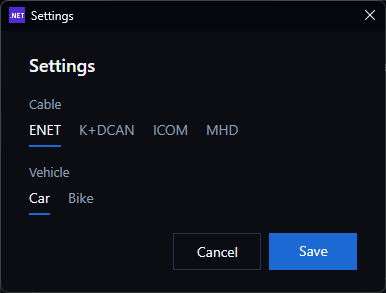
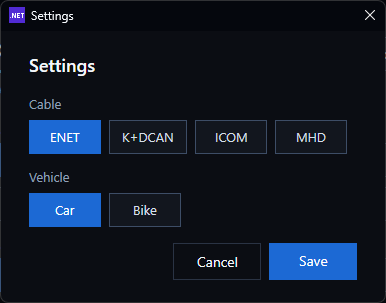
Make the steps obvious, state the risk in About, and put a large exe download on the repo page.

diff --git a/MainWindow.xaml b/MainWindow.xaml
@@ -4,7 +4,7 @@
         xmlns:local="clr-namespace:KdrEnet"
         Title="KDR ENET"
         Width="520"
-        Height="680"
+        Height="760"
         MinWidth="440"
         MinHeight="460"
         ResizeMode="CanResize"
@@ -219,7 +219,7 @@
                         </Style>
                     </TextBlock.Style>
                 </TextBlock>
-                <TextBlock Text="Server is far. Use the Open Radmin VPN button, join the same network, then Start on the car laptop."
+                <TextBlock Text="The server is far. Open Radmin VPN on both laptops, join the same network, then Start on the car laptop."
                            FontSize="13" Foreground="#e8b15a" TextWrapping="Wrap" Margin="0,6,0,0"
                            Visibility="{Binding PingIsFar, Converter={StaticResource BoolVis}}"/>
             </StackPanel>
@@ -229,24 +229,31 @@
             </StackPanel>
         </Grid>
 
-        <UniformGrid Grid.Row="1" Columns="2" Margin="0,0,0,10">
-            <Button x:Name="KdrPathButton" Content="KDR server" Style="{StaticResource ChoiceButton}" Margin="0,0,8,0" Click="ChooseKdr_Click"/>
-            <Button x:Name="RadminPathButton" Content="Radmin VPN" Style="{StaticResource ChoiceButton}" Click="ChooseRadmin_Click"/>
-        </UniformGrid>
+        <StackPanel Grid.Row="1" Margin="0,0,0,10">
+            <TextBlock Text="1. How the two laptops connect" FontSize="13" Foreground="#8ea0b5" Margin="0,0,0,6"/>
+            <UniformGrid Columns="2">
+                <Button x:Name="KdrPathButton" Content="KDR server" Style="{StaticResource ChoiceButton}" Margin="0,0,8,0" Click="ChooseKdr_Click"/>
+                <Button x:Name="RadminPathButton" Content="Radmin VPN" Style="{StaticResource ChoiceButton}" Click="ChooseRadmin_Click"/>
+            </UniformGrid>
+        </StackPanel>
 
-        <Button Grid.Row="2" Content="Open Radmin VPN" Style="{StaticResource ChoiceButton}" HorizontalAlignment="Stretch" Margin="0,0,0,10" Click="Radmin_Click"/>
+        <Button Grid.Row="2" Content="Open Radmin VPN" Style="{StaticResource ChoiceButton}" HorizontalAlignment="Stretch" Margin="0,0,0,14" Click="Radmin_Click"/>
 
-        <UniformGrid Grid.Row="3" Columns="2" Margin="0,0,0,16">
-            <Button x:Name="CarRoleButton" Content="Car laptop" Style="{StaticResource ChoiceButton}" Margin="0,0,8,0" Click="ChooseCar_Click"/>
-            <Button x:Name="EsyRoleButton" Content="E-Sys laptop" Style="{StaticResource ChoiceButton}" Click="ChooseEsy_Click"/>
-        </UniformGrid>
+        <StackPanel Grid.Row="3" Margin="0,0,0,12">
+            <TextBlock Text="2. Which laptop is this" FontSize="13" Foreground="#8ea0b5" Margin="0,0,0,6"/>
+            <UniformGrid Columns="2">
+                <Button x:Name="CarRoleButton" Content="Car laptop" Style="{StaticResource ChoiceButton}" Margin="0,0,8,0" Click="ChooseCar_Click"/>
+                <Button x:Name="EsyRoleButton" Content="E-Sys laptop" Style="{StaticResource ChoiceButton}" Click="ChooseEsy_Click"/>
+            </UniformGrid>
+            <TextBlock Text="{Binding GuideLine}" FontSize="14" Foreground="#f4f7fb" TextWrapping="Wrap" Margin="0,12,0,0"/>
+        </StackPanel>
 
         <TextBlock Grid.Row="4" Text="{Binding StatusLine}" FontSize="13" Foreground="#8ea0b5" Margin="0,0,0,8"
                    Visibility="{Binding IsCarSide, Converter={StaticResource BoolVis}}"/>
 
         <StackPanel Grid.Row="5" VerticalAlignment="Center">
             <StackPanel Visibility="{Binding ShowCarCode, Converter={StaticResource BoolVis}}">
-                <TextBlock Text="Read this out" FontSize="13" Foreground="#8ea0b5" Margin="0,0,0,10"/>
+                <TextBlock Text="Read these 6 numbers out loud" FontSize="13" Foreground="#8ea0b5" Margin="0,0,0,10"/>
                 <StackPanel Orientation="Horizontal">
                     <TextBlock Text="{Binding Shown0}" Style="{StaticResource DigitRead}"/>
                     <TextBlock Text="{Binding Shown1}" Style="{StaticResource DigitRead}"/>
@@ -261,7 +268,7 @@
                 <TextBlock Text="{Binding RadminReadout}" FontSize="18" FontWeight="SemiBold" TextWrapping="Wrap"/>
             </StackPanel>
             <StackPanel Visibility="{Binding ShowTechCode, Converter={StaticResource BoolVis}}">
-                <TextBlock Text="Type the code" FontSize="13" Foreground="#8ea0b5" Margin="0,0,0,10"/>
+                <TextBlock Text="Type the 6 numbers from the car laptop" FontSize="13" Foreground="#8ea0b5" Margin="0,0,0,10"/>
                 <StackPanel Orientation="Horizontal">
                     <TextBox x:Name="Digit0" Style="{StaticResource DigitBox}"/>
                     <TextBox x:Name="Digit1" Style="{StaticResource DigitBox}"/>

diff --git a/SettingsWindow.xaml b/SettingsWindow.xaml
@@ -14,18 +14,21 @@
         SnapsToDevicePixels="True">
     <Window.Resources>
         <Style x:Key="Pick" TargetType="Button">
-            <Setter Property="Background" Value="Transparent"/>
-            <Setter Property="Foreground" Value="#8ea0b5"/>
-            <Setter Property="FontSize" Value="14"/>
-            <Setter Property="Padding" Value="0,0,0,6"/>
-            <Setter Property="Margin" Value="0,0,18,10"/>
+            <Setter Property="Height" Value="34"/>
+            <Setter Property="MinWidth" Value="72"/>
+            <Setter Property="Margin" Value="0,0,8,8"/>
+            <Setter Property="Padding" Value="12,0"/>
+            <Setter Property="FontSize" Value="13"/>
             <Setter Property="Cursor" Value="Hand"/>
-            <Setter Property="HorizontalAlignment" Value="Left"/>
+            <Setter Property="Background" Value="#12161e"/>
+            <Setter Property="Foreground" Value="#d5deea"/>
+            <Setter Property="BorderBrush" Value="#3d4d66"/>
+            <Setter Property="BorderThickness" Value="1"/>
             <Setter Property="Template">
                 <Setter.Value>
                     <ControlTemplate TargetType="Button">
-                        <Border Background="Transparent" BorderBrush="{TemplateBinding BorderBrush}" BorderThickness="{TemplateBinding BorderThickness}" Padding="{TemplateBinding Padding}">
-                            <ContentPresenter/>
+                        <Border Background="{TemplateBinding Background}" BorderBrush="{TemplateBinding BorderBrush}" BorderThickness="{TemplateBinding BorderThickness}" Padding="{TemplateBinding Padding}">
+                            <ContentPresenter HorizontalAlignment="Center" VerticalAlignment="Center"/>
                         </Border>
                     </ControlTemplate>
                 </Setter.Value>

diff --git a/AboutWindow.xaml b/AboutWindow.xaml
@@ -2,8 +2,8 @@
         xmlns="http://schemas.microsoft.com/winfx/2006/xaml/presentation"
         xmlns:x="http://schemas.microsoft.com/winfx/2006/xaml"
         Title="About"
-        Width="420"
-        Height="420"
+        Width="440"
+        Height="560"
         WindowStartupLocation="CenterOwner"
         ResizeMode="NoResize"
         Background="#0b0d13"
@@ -78,6 +78,7 @@
             </TextBlock>
             <TextBlock x:Name="VersionLine" Margin="0,6,0,0" Foreground="#8ea0b5" FontSize="13"/>
             <TextBlock x:Name="CreatorLine" Margin="0,4,0,0" FontSize="13" Foreground="#b7c3d1"/>
+            <TextBlock x:Name="SummaryLine" Margin="0,10,0,0" FontSize="13" Foreground="#f4f7fb" TextWrapping="Wrap"/>
             <StackPanel Orientation="Horizontal" Margin="0,6,0,0">
                 <Button Content="kdrcoding.com" Style="{StaticResource LinkButton}" Click="Site_Click"/>
                 <TextBlock Text="  ·  " Foreground="#8ea0b5"/>

diff --git a/LegalCopy.cs b/LegalCopy.cs
@@ -2,7 +2,10 @@ namespace KdrEnet;
 
 public static class LegalCopy
 {
-    public const string TermsVersion = "1.2";
+    public const string TermsVersion = "1.3";
+
+    public const string Summary =
+        "You use this at your own risk. Kadir and KDR Coding do not pay for car damage, failed coding, or other losses, as far as the law allows. Use it only on a vehicle you are allowed to work on. Do not use it to reach a car or a computer without permission. This app is not BMW software.";
     public const string Creator = "Kadir";
     public const string Brand = "KDR Coding";
     public const string Site = "https://kdrcoding.com";
@@ -10,30 +13,32 @@ public static class LegalCopy
 
     public const string Terms = """
 KDR ENET TERMS OF USE
-Version 1.2
+Version 1.3
 
-These terms are a contract between you and Kadir, operating as KDR Coding ("KDR", "we"), for the KDR ENET software. By clicking I agree, or by starting a session, you accept them. If you do not accept them, do not start a session.
+These terms are a contract between you and Kadir, operating as KDR Coding ("KDR", "we"), for the KDR ENET software. By clicking I agree, or by starting a session, you accept them. If you do not accept them, close the app.
 
 1. What the software does
-KDR ENET is a remote-session helper for a car connected to one computer with an ENET cable. The computer with the car shows a session code. The other computer types that code. Both computers connect outward to the KDR session server, and the server passes vehicle diagnostic traffic between them for that code only. E-Sys on the other computer uses 127.0.0.1. Stop, or closing the window, ends the connection. This version does not turn Windows Firewall off. If an older session left the firewall off, Stop restores the settings from before that session.
+KDR ENET is a connection helper. One computer is with the car. The other computer runs a diagnostic program you already have, such as E-Sys. The two computers are not on the same Wi-Fi. They meet through the KDR session server, or through a Radmin VPN network you install and join yourself. KDR ENET does not include E-Sys, BMW software, or Radmin VPN. It does not code the car by itself. Stop, or closing the window, ends the connection. This version does not turn Windows Firewall off. If an older session left the firewall off, Stop restores the settings from before that session.
 
-2. Who may use it
-You confirm that you are allowed to change the firewall on this computer, and that you own the vehicle or have the owner's permission to connect to it and to code or diagnose it. You will stay with the computer while the session is on, and you will end the session when the work is finished. You will not use the software on a computer or a vehicle you are not allowed to service.
+2. Lawful use only
+Use KDR ENET only on a computer you are allowed to control, and only on a vehicle you own or have the owner's permission to diagnose or code. You will stay with the computer while the session is on, and you will end the session when the work is finished. You will not use the software to reach a vehicle, a computer, or a network without permission. That kind of use can be a crime, and it is not what this software is for. You are responsible for obeying the law where you are, and for any license on E-Sys, Radmin VPN, or other software you use with it.
 
 3. Risk you accept
-Vehicle coding and diagnostics can change how a car behaves. A wrong step, a dead battery, a pulled cable, or an open session can affect modules, settings, or this computer. Diagnostic traffic for the session passes through the KDR session server while the session is on. If an older session left the firewall off, this computer accepts inbound network traffic until you click Stop. You understand those risks and you choose to take them. KDR does not promise that a session will succeed, that a feature will work, or that the car or the computer will be unchanged.
+Vehicle coding and diagnostics can change how a car behaves. A wrong step, a dead battery, a pulled cable, or an open session can affect modules, settings, or this computer. On the KDR server path, diagnostic traffic for the session passes through the KDR session server while the session is on. On the Radmin VPN path, traffic stays on the Radmin VPN network you joined. If an older session left the firewall off, this computer accepts inbound network traffic until you click Stop. You understand those risks and you choose to take them. KDR does not promise that a session will succeed, that a feature will work, or that the car or the computer will be unchanged.
 
 4. No warranty
-The software is provided as is and as available. To the fullest extent allowed by law, KDR gives no warranty of any kind, whether express, implied, or statutory, including any warranty of merchantability, fitness for a particular purpose, title, quiet enjoyment, accuracy, or non-infringement. We do not warrant that the software will be uninterrupted, error-free, or safe for every car or every network.
+The software is provided as is and as available, free of charge. To the fullest extent allowed by law, KDR gives no warranty of any kind, whether express, implied, or statutory, including any warranty of merchantability, fitness for a particular purpose, title, quiet enjoyment, accuracy, or non-infringement. We do not warrant that the software will be uninterrupted, error-free, or safe for every car or every network.
 
-5. Limit of liability
-To the fullest extent allowed by law, Kadir and KDR Coding will not be liable for any indirect, incidental, special, consequential, exemplary, or punitive damages, or for any loss of data, loss of use, lost profits, vehicle damage, module failure, failed coding, computer damage, privacy or security incident while diagnostic traffic passes through the session server or while the firewall is off from an older session, or cost of substitute service, whether the claim is in contract, tort, or any other theory, and whether or not we were told it might happen. If a law does not allow that full limit, our total liability for all claims arising out of one session is limited to the amount you paid KDR Coding for that session, or fifty United States dollars if you paid nothing for it.
+5. No money from us
+To the fullest extent allowed by law, Kadir and KDR Coding owe you no money for anything that happens when you use the software or when you cannot use it. That includes vehicle damage, a module that fails, coding that does not stick, a dead battery, a pulled cable, computer damage, lost data, lost profits, lost time, a privacy or security problem while traffic passes through the session server, and any problem with E-Sys, Radmin VPN, Windows, a cable, or another tool. This applies to every kind of claim, including contract and tort, even if we were told it might happen. Your remedy is to stop using the software.
+
+If a law does not allow that full limit, the most Kadir and KDR Coding will pay for every claim from one use is the amount you paid KDR Coding for the software, or fifty United States dollars if you paid nothing.
 
 6. Claims by other people
-If someone else brings a claim because of your use of the software, the vehicle, or this computer, including a claim about firewall changes, remote access, or coding, you will defend Kadir and KDR Coding and cover the resulting damages, settlements, and reasonable legal costs, to the extent the claim is not caused by our intentional misconduct.
+If someone else brings a claim because of your use of the software, the vehicle, or this computer, including a claim about remote access, coding, or a missing permission, you will defend Kadir and KDR Coding and pay the resulting damages, settlements, and reasonable legal costs, except to the extent the claim is caused by our intentional misconduct.
 
 7. Names and independence
-KDR ENET is created by Kadir for KDR Coding. It is an independent tool. It is not made by, endorsed by, or affiliated with Bayerische Motoren Werke AG, BMW, ispiexpert, or EsysX. BMW, ENET, E-Sys, and other product names are the property of their owners and are used here only to describe compatibility.
+KDR ENET is created by Kadir for KDR Coding. It is an independent tool. It is not made by, endorsed by, or affiliated with Bayerische Motoren Werke AG, BMW, ispiexpert, EsysX, or Famatech (Radmin). BMW, ENET, E-Sys, Radmin, and other product names belong to their owners and are used here only so you know what the app connects to.
 
 8. If part of this is not enforceable
 If a court holds that one part of these terms cannot be enforced, the rest stays in effect. These terms are governed by the laws of the United States and the state where KDR Coding is based, without regard to conflict-of-law rules. Some places do not allow certain warranty disclaimers or liability limits. In those places, the limits apply only as far as the law allows. Nothing in these terms limits a right that the law says cannot be limited.

diff --git a/SessionViewModel.cs b/SessionViewModel.cs
@@ -149,7 +149,7 @@ public sealed class SessionViewModel : INotifyPropertyChanged
         set => Set(ref _checkTone, value);
     }
 
-    private string _pingText = "Measuring…";
+    private string _pingText = "Measuring the server…";
     private string _pingTone = "missing";
 
     public string PingText
@@ -168,18 +168,26 @@ public sealed class SessionViewModel : INotifyPropertyChanged
     {
         if (milliseconds is null)
         {
-            PingText = "No answer";
+            PingText = "The server did not answer";
             PingTone = "wrong";
             OnPropertyChanged(nameof(PingIsFar));
             return;
         }
 
-        PingText = milliseconds + " ms";
+        PingText = milliseconds + " ms to the server";
         PingTone = milliseconds >= 200 ? "wrong" : "good";
         OnPropertyChanged(nameof(PingIsFar));
     }
 
-    public bool PingIsFar => PingTone == "wrong" && PingText.EndsWith(" ms", StringComparison.Ordinal);
+    public bool PingIsFar => PingTone == "wrong" && PingText.Contains(" ms", StringComparison.Ordinal);
+
+    public string GuideLine => UseRadmin
+        ? (IsCarSide
+            ? "This laptop stays with the car. Open Radmin VPN, join the same network, then click Start."
+            : "This laptop runs E-Sys. Open Radmin VPN, join the same network, and paste the car laptop address into E-Sys.")
+        : (IsCarSide
+            ? "This laptop stays with the car. Click Get code, then read the 6 numbers to the other person."
+            : "This laptop runs E-Sys. Type the 6 numbers, click Join, then use the address shown here.");
 
     private bool _useRadmin;
     private string _radminAddress = "";
@@ -369,6 +377,7 @@ public sealed class SessionViewModel : INotifyPropertyChanged
         OnPropertyChanged(nameof(ShowTechRadmin));
         OnPropertyChanged(nameof(RadminReadout));
         OnPropertyChanged(nameof(SideSwitchLabel));
+        OnPropertyChanged(nameof(GuideLine));
     }
 
     private bool Set<T>(ref T field, T value, [CallerMemberName] string? name = null)

diff --git a/SettingsWindow.xaml.cs b/SettingsWindow.xaml.cs
@@ -9,8 +9,10 @@ public partial class SettingsWindow : Window
     private CableKind _cable;
     private VehicleKind _vehicle;
     private static readonly SolidColorBrush Mark = Freeze(Color.FromRgb(0x1C, 0x69, 0xD4));
-    private static readonly SolidColorBrush OnText = Freeze(Color.FromRgb(0xF4, 0xF7, 0xFB));
-    private static readonly SolidColorBrush OffText = Freeze(Color.FromRgb(0x8E, 0xA0, 0xB5));
+    private static readonly SolidColorBrush OffBg = Freeze(Color.FromRgb(0x12, 0x16, 0x1E));
+    private static readonly SolidColorBrush Line = Freeze(Color.FromRgb(0x3D, 0x4D, 0x66));
+    private static readonly SolidColorBrush OnText = Freeze(Color.FromRgb(0xFF, 0xFF, 0xFF));
+    private static readonly SolidColorBrush OffText = Freeze(Color.FromRgb(0xD5, 0xDE, 0xEA));
 
     public SettingsWindow()
     {
@@ -67,9 +69,10 @@ public partial class SettingsWindow : Window
 
     private static void PaintOne(Button button, bool selected)
     {
+        button.Background = selected ? Mark : OffBg;
         button.Foreground = selected ? OnText : OffText;
-        button.BorderBrush = Mark;
-        button.BorderThickness = new Thickness(0, 0, 0, selected ? 2 : 0);
+        button.BorderBrush = selected ? Mark : Line;
+        button.BorderThickness = new Thickness(1);
     }
 
     private static SolidColorBrush Freeze(Color color)

diff --git a/AboutWindow.xaml.cs b/AboutWindow.xaml.cs
@@ -13,6 +13,7 @@ public partial class AboutWindow : Window
         var label = version is null ? "1.1" : version.ToString(3);
         VersionLine.Text = label;
         CreatorLine.Text = "Created by " + LegalCopy.Creator;
+        SummaryLine.Text = LegalCopy.Summary;
         TermsBox.Text = LegalCopy.Terms;
         if (!requireConsent)
         {

diff --git a/README.md b/README.md
@@ -1,74 +1,56 @@
 # KDR ENET
 
-Free Windows app for a remote BMW coding session. The laptop on the car shows a 6-digit code. The laptop running E-Sys types it. In E-Sys use `tcp://127.0.0.1:6801`. The two laptops do not need the same Wi-Fi.
-
-Windows 10 or 11, 64-bit. Click **Yes** when Windows asks. .NET is already inside the download.
-
-Cables for the session: **ENET**, **MHD**, **ICOM**. K+DCAN only shows that the USB cable is in. The check at the bottom says **Missing**, **Wrong**, or **All good**.
-
-Both copies call the KDR session server. The car laptop and the E-Sys laptop can be on different internet connections.
-
-Not affiliated with BMW. Created by Kadir · [kdrcoding.com](https://kdrcoding.com)
-
-**[Download KdrEnet.exe](https://github.com/kdrcoding/kdr-enet/releases/latest)** · Windows 10 or 11, 64-bit · click **Yes**
-
-You do not install .NET. It is already inside the download. The app itself does not need a driver to open.
+Free Windows app. One laptop stays with the car. The other laptop runs E-Sys. They do not need the same Wi-Fi.
 
 <p align="center">
-  <img src="docs/car.png" width="360" alt="KDR ENET on the car laptop. The BMW session code appears in the Code box.">
-  &nbsp;&nbsp;
-  <img src="docs/esys.png" width="360" alt="KDR ENET on the E-Sys laptop. Type the BMW session code, then use 127.0.0.1 in E-Sys.">
+  <a href="https://github.com/kdrcoding/kdr-enet/releases/latest/download/KdrEnet.exe">
+    <img src="docs/download-exe.png" width="520" alt="Download KdrEnet.exe">
+  </a>
 </p>
 
-## Car laptop · with the BMW
+<p align="center">
+  <b>Click the blue button. It downloads KdrEnet.exe.</b><br>
+  Windows 10 or 11, 64-bit. When Windows asks, click <b>Yes</b>. You do not install .NET.
+</p>
 
-1. Open KDR ENET → **Car laptop**
-2. Cable in. Ignition on. Wait until the module is awake
-3. **Get code** — read the six numbers out loud
-4. Leave this window open
+## What to click
 
-Cables for the session: **ENET**, **MHD**, **ICOM**.
+1. **How the two laptops connect.** Use **KDR server** when the number at the top is low. Use **Radmin VPN** when it says the server is far, or when you already share a Radmin VPN network. **Open Radmin VPN** starts that program. Both laptops join the same network.
+2. **Which laptop is this.** **Car laptop** is the one with the cable. **E-Sys laptop** is the other one.
+3. The sentence under those buttons tells you the next click.
 
-## E-Sys laptop
+On **KDR server**, the car laptop shows 6 numbers. The E-Sys laptop types them and clicks **Join**. In E-Sys use `tcp://127.0.0.1:6801`.
 
-1. Open KDR ENET → **E-Sys laptop**
-2. Type the code in the **6 boxes** → **Join**
-3. After Join, in E-Sys put `tcp://127.0.0.1:6801`
-
-The top of the window shows the delay to the session server, in milliseconds. **KDR server** uses the 6-digit code and `tcp://127.0.0.1:6801`. **Radmin VPN** uses a Radmin VPN network you already joined. On the car laptop, Start shows an address like `tcp://26.x.x.x:6801`.
-4. Leave this window open
+On **Radmin VPN**, the car laptop clicks **Start** and shows an address like `tcp://26.x.x.x:6801`. Paste that address into E-Sys.
 
 **Stop** on both laptops when the coding is done.
+
+<p align="center">
+  <img src="docs/car.png" width="360" alt="KDR ENET on the car laptop.">
+  &nbsp;&nbsp;
+  <img src="docs/esys.png" width="360" alt="KDR ENET on the E-Sys laptop.">
+</p>
 
 ## Settings
 
 <p align="center">
-  <img src="docs/settings.png" width="320" alt="Settings for BMW cable type and car or bike.">
+  <img src="docs/settings.png" width="320" alt="Settings for the cable and car or bike.">
 </p>
 
-Pick the cable and **Car** or **Bike**.
-
-K+DCAN only shows that the USB cable is plugged in. The code session is for ENET, MHD, and ICOM.
+Pick the cable and **Car** or **Bike**. The code session is for **ENET**, **MHD**, and **ICOM**. K+DCAN only shows that the USB cable is in.
 
 ## Cable driver
 
-Windows 10 and 11 usually already have the cable driver. If the cable is plugged in and the app still says the driver is missing, click **Open driver page** in the app.
+Windows 10 and 11 usually already have the cable driver. If the cable is plugged in and the app says the driver is missing, click **Open driver page**.
 
-- K+DCAN, FTDI chip: [FTDI VCP driver](https://ftdichip.com/drivers/vcp-drivers/)
-- K+DCAN, CH340 chip: [WCH CH340 driver](https://www.wch-ic.com/downloads/CH341SER_EXE.html)
-- ENET, ASIX chip: [ASIX driver](https://www.asix.com.tw/en/support/download)
-- ENET, Realtek chip: [Realtek downloads](https://www.realtek.com/en/downloads)
-
-The E-Sys laptop does not need a cable driver.
-
-The bottom line names what is missing, what is wrong, or says **All good**.
+The bottom line names what is missing. **Awake** means the module answered. It is not a battery voltage.
 
 ## Before you start
 
-- First open: read the terms → **I agree**
-- **Awake** means the module answered. It is not a battery voltage
-- **Get code** on the car laptop, then **Join** on the E-Sys laptop, then connect E-Sys
+The first time, read About and click **I agree**. You use KDR ENET at your own risk, and only on a vehicle you are allowed to work on. It does not include E-Sys or Radmin VPN. It is not made by BMW.
 
-KDR ENET is an independent tool for a remote BMW session. Not affiliated with BMW.
+<p align="center">
+  <img src="docs/about.png" width="320" alt="About KDR ENET. You use it at your own risk, and only on a vehicle you are allowed to work on.">
+</p>
 
 Created by Kadir · [kdrcoding.com](https://kdrcoding.com) · support@kdrcoding.com
